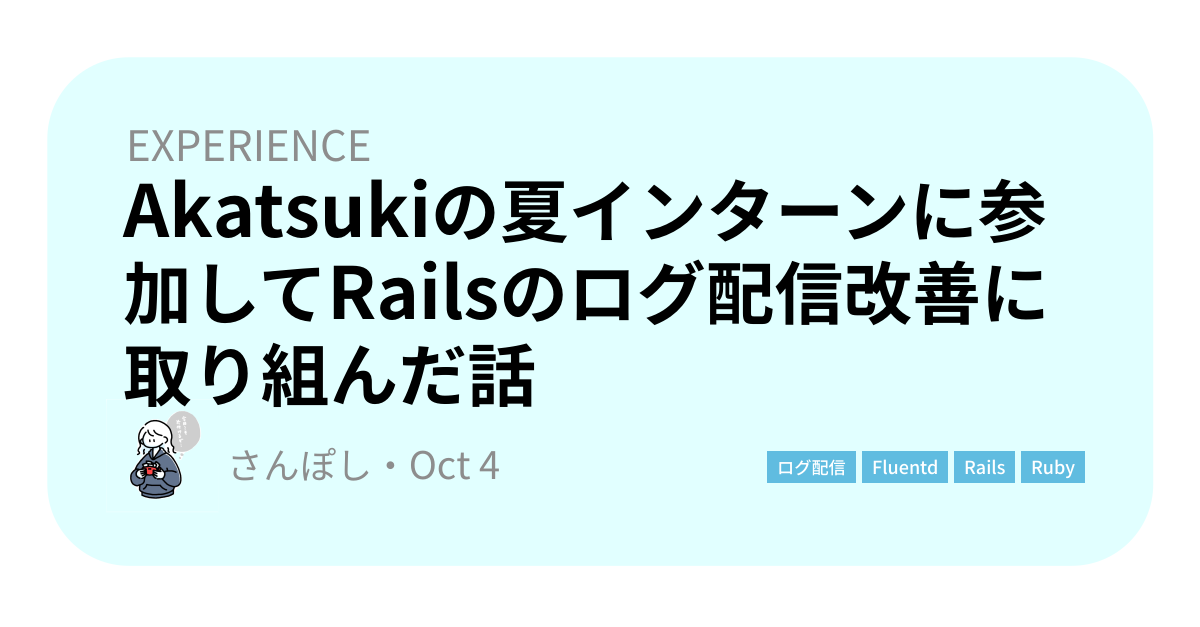
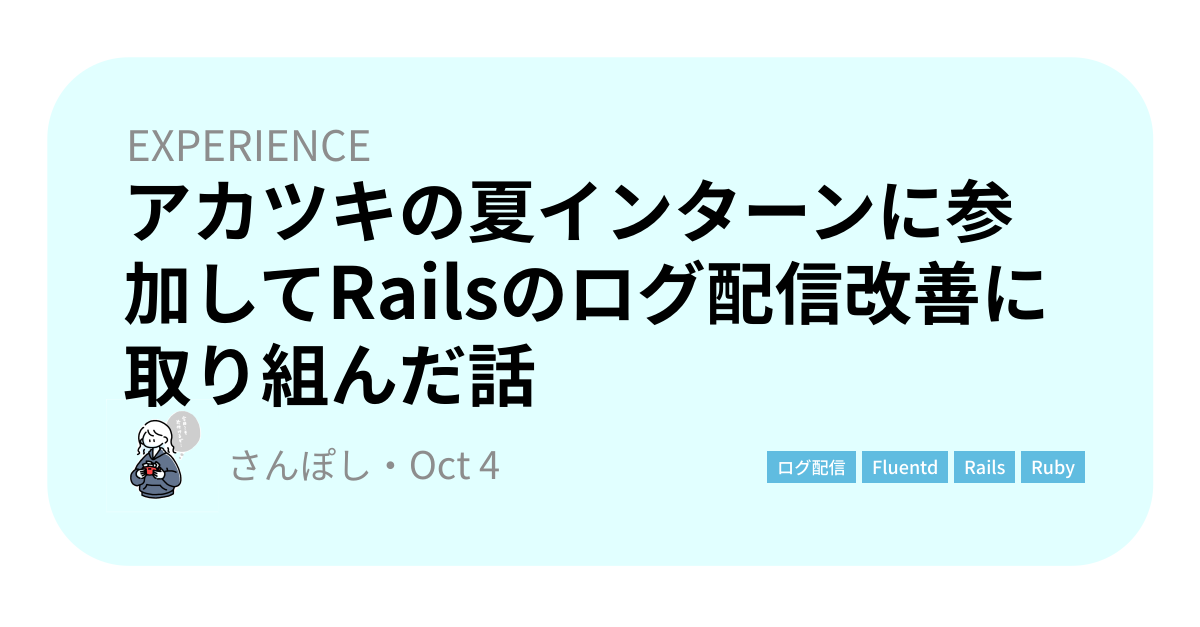
fix: akatsuki to アカツキ

Changed region(s): [[0.0925, 0.2727, 0.8942, 0.3939]]

diff --git a/content/about/index.md b/content/about/index.md
@@ -89,7 +89,7 @@ Hack the Box : [@sanposhiho](https://www.hackthebox.eu/profile/247307)
 
 #### 関連記事
 
-- [Akatsukiの夏インターンに参加してRailsのログ配信改善に取り組んだ話](/posts/akatsuki-summer-internship-2020/)
+- [アカツキの夏インターンに参加してRailsのログ配信改善に取り組んだ話](/posts/akatsuki-summer-internship-2020/)
 
 ## Recruit
 

diff --git a/content/posts/akatsuki-summer-internship-2020.md b/content/posts/akatsuki-summer-internship-2020.md
@@ -1,5 +1,5 @@
 ---
-title: "Akatsukiの夏インターンに参加してRailsのログ配信改善に取り組んだ話"
+title: "アカツキの夏インターンに参加してRailsのログ配信改善に取り組んだ話"
 date: 2020-10-04T22:37:54+09:00
 description: "Akatsuki Summer Internship 2020に参加してきました"
 draft: false
